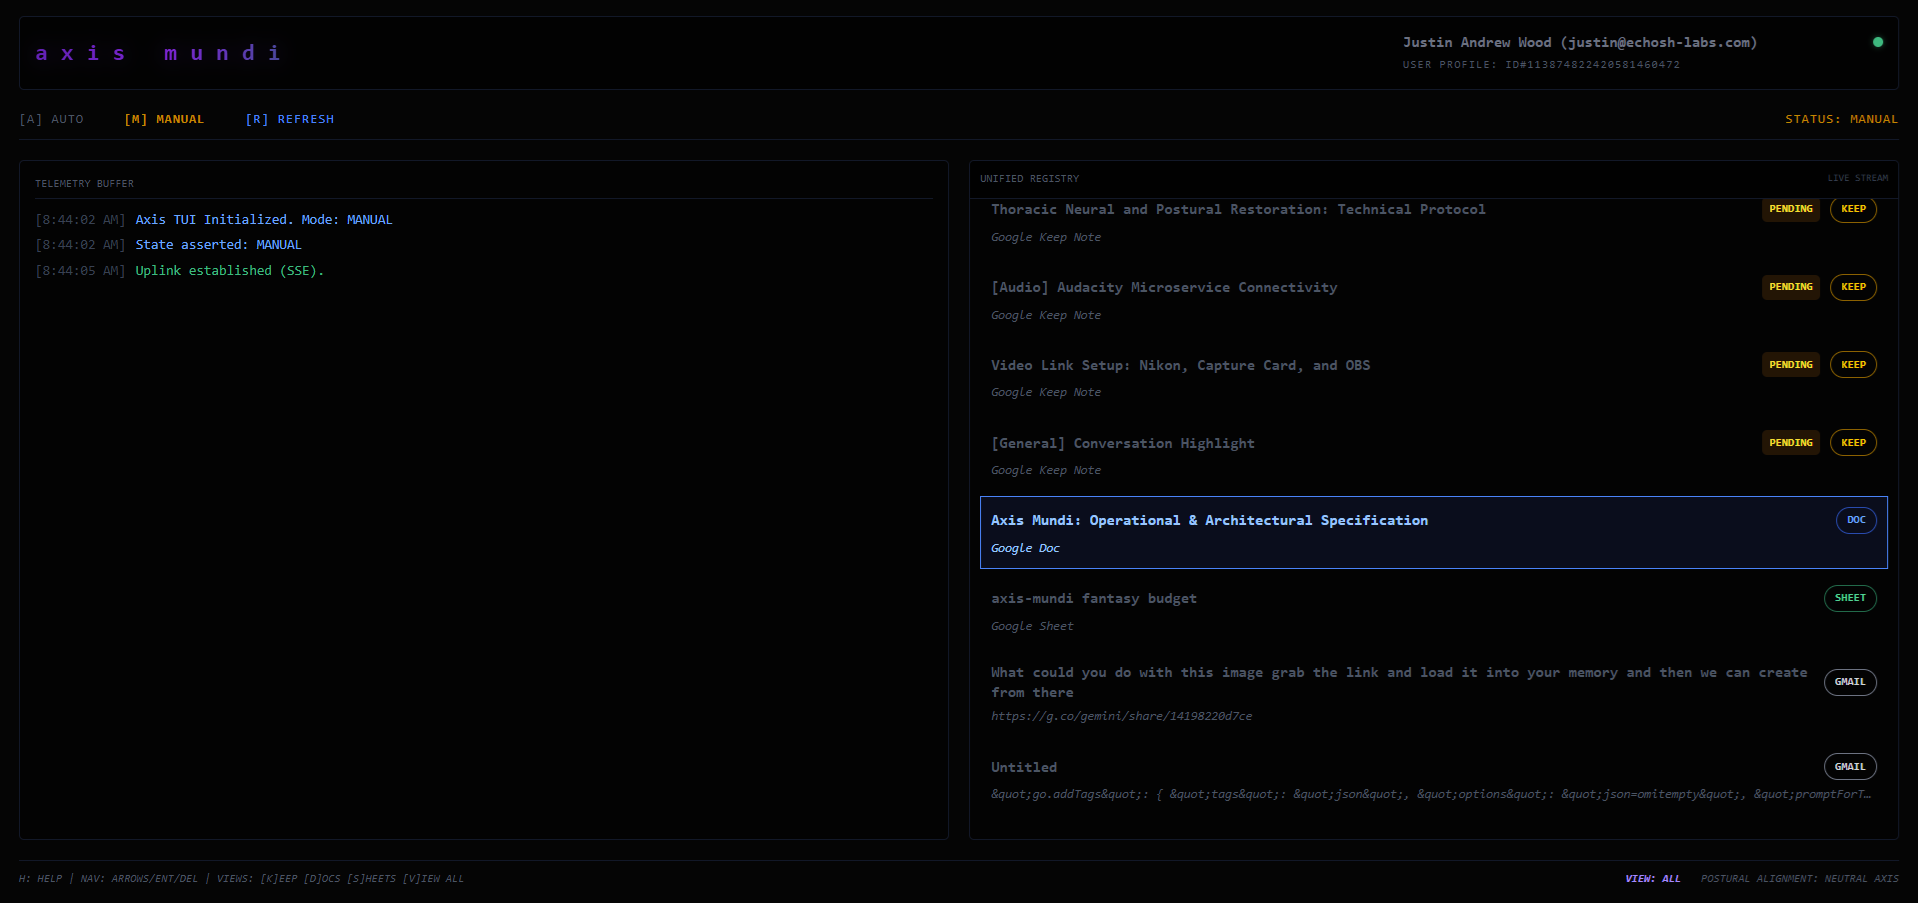
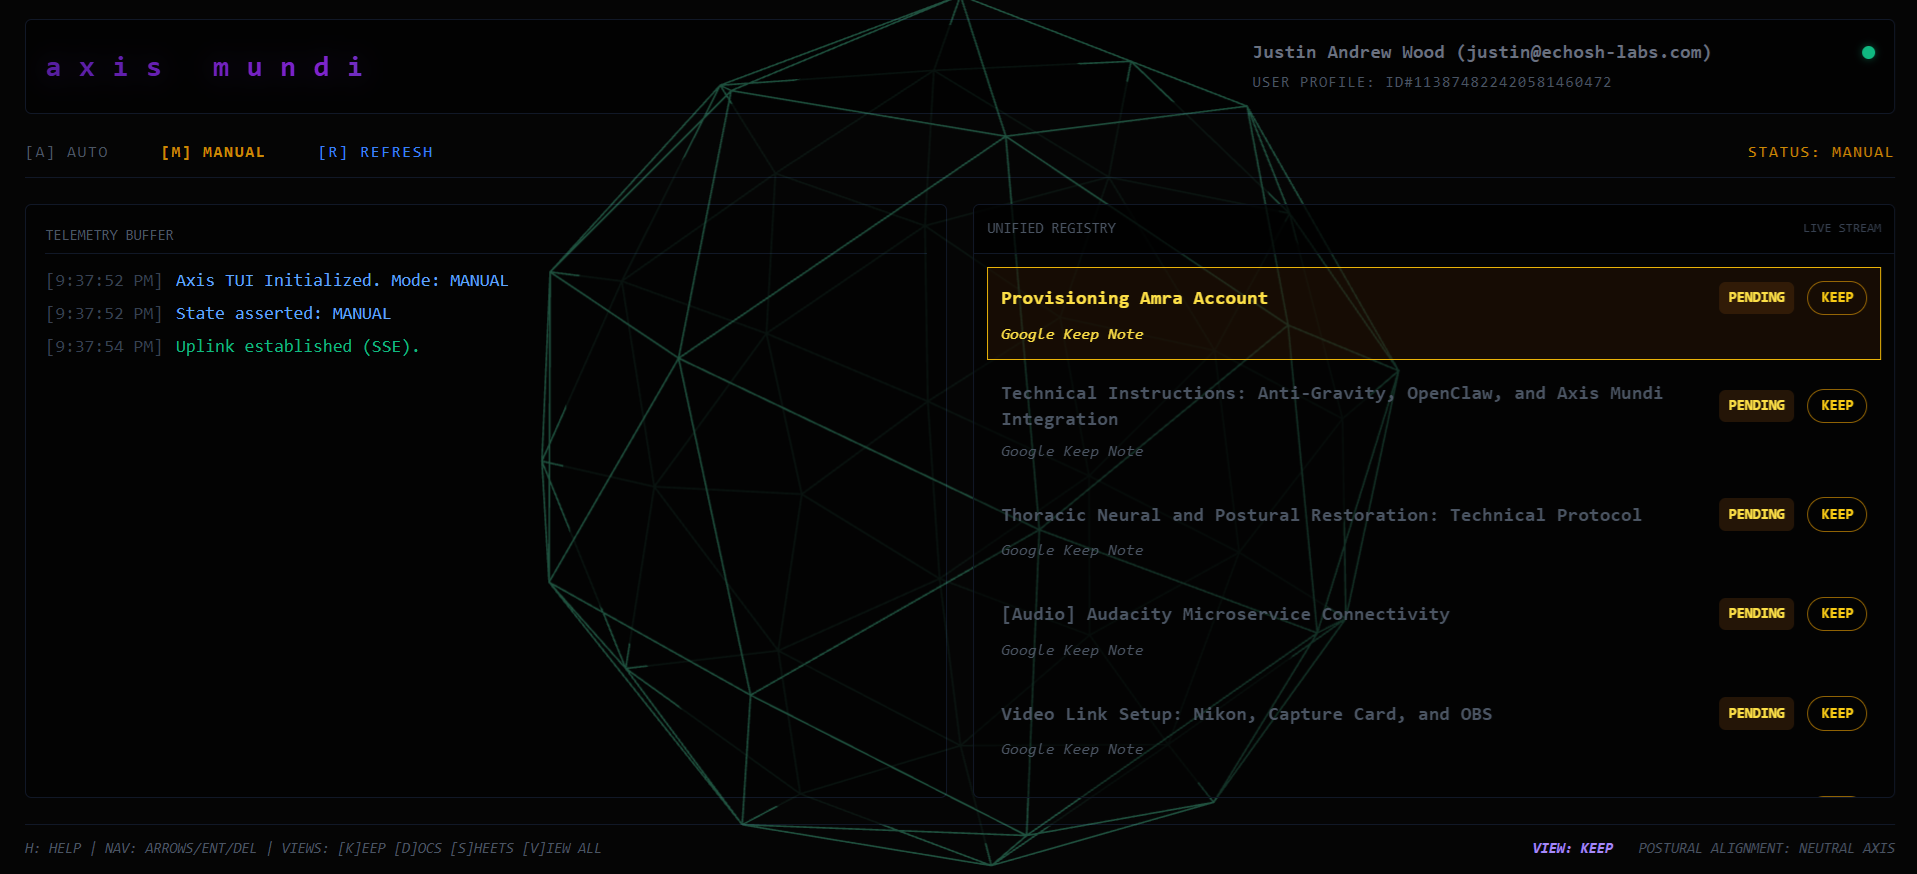
Update landing page screenshot

diff --git a/landing/dist/landing.7ob0jr1B.css b/landing/dist/landing.7ob0jr1B.css
@@ -1,0 +1,1 @@
+*,:after,:before{--tw-border-spacing-x:0;--tw-border-spacing-y:0;--tw-translate-x:0;--tw-translate-y:0;--tw-rotate:0;--tw-skew-x:0;--tw-skew-y:0;--tw-scale-x:1;--tw-scale-y:1;--tw-pan-x: ;--tw-pan-y: ;--tw-pinch-zoom: ;--tw-scroll-snap-strictness:proximity;--tw-gradient-from-position: ;--tw-gradient-via-position: ;--tw-gradient-to-position: ;--tw-ordinal: ;--tw-slashed-zero: ;--tw-numeric-figure: ;--tw-numeric-spacing: ;--tw-numeric-fraction: ;--tw-ring-inset: ;--tw-ring-offset-width:0px;--tw-ring-offset-color:#fff;--tw-ring-color:rgba(59,130,246,.5);--tw-ring-offset-shadow:0 0 #0000;--tw-ring-shadow:0 0 #0000;--tw-shadow:0 0 #0000;--tw-shadow-colored:0 0 #0000;--tw-blur: ;--tw-brightness: ;--tw-contrast: ;--tw-grayscale: ;--tw-hue-rotate: ;--tw-invert: ;--tw-saturate: ;--tw-sepia: ;--tw-drop-shadow: ;--tw-backdrop-blur: ;--tw-backdrop-brightness: ;--tw-backdrop-contrast: ;--tw-backdrop-grayscale: ;--tw-backdrop-hue-rotate: ;--tw-backdrop-invert: ;--tw-backdrop-opacity: ;--tw-backdrop-saturate: ;--tw-backdrop-sepia: ;--tw-contain-size: ;--tw-contain-layout: ;--tw-contain-paint: ;--tw-contain-style: }::backdrop{--tw-border-spacing-x:0;--tw-border-spacing-y:0;--tw-translate-x:0;--tw-translate-y:0;--tw-rotate:0;--tw-skew-x:0;--tw-skew-y:0;--tw-scale-x:1;--tw-scale-y:1;--tw-pan-x: ;--tw-pan-y: ;--tw-pinch-zoom: ;--tw-scroll-snap-strictness:proximity;--tw-gradient-from-position: ;--tw-gradient-via-position: ;--tw-gradient-to-position: ;--tw-ordinal: ;--tw-slashed-zero: ;--tw-numeric-figure: ;--tw-numeric-spacing: ;--tw-numeric-fraction: ;--tw-ring-inset: ;--tw-ring-offset-width:0px;--tw-ring-offset-color:#fff;--tw-ring-color:rgba(59,130,246,.5);--tw-ring-offset-shadow:0 0 #0000;--tw-ring-shadow:0 0 #0000;--tw-shadow:0 0 #0000;--tw-shadow-colored:0 0 #0000;--tw-blur: ;--tw-brightness: ;--tw-contrast: ;--tw-grayscale: ;--tw-hue-rotate: ;--tw-invert: ;--tw-saturate: ;--tw-sepia: ;--tw-drop-shadow: ;--tw-backdrop-blur: ;--tw-backdrop-brightness: ;--tw-backdrop-contrast: ;--tw-backdrop-grayscale: ;--tw-backdrop-hue-rotate: ;--tw-backdrop-invert: ;--tw-backdrop-opacity: ;--tw-backdrop-saturate: ;--tw-backdrop-sepia: ;--tw-contain-size: ;--tw-contain-layout: ;--tw-contain-paint: ;--tw-contain-style: }/*! tailwindcss v3.4.19 | MIT License | https://tailwindcss.com*/*,:after,:before{box-sizing:border-box;border:0 solid #e5e7eb}:after,:before{--tw-content:""}:host,html{line-height:1.5;-webkit-text-size-adjust:100%;-moz-tab-size:4;-o-tab-size:4;tab-size:4;font-family:Space Grotesk,ui-sans-serif,system-ui,sans-serif;font-feature-settings:normal;font-variation-settings:normal;-webkit-tap-highlight-color:transparent}body{margin:0;line-height:inherit}hr{height:0;color:inherit;border-top-width:1px}abbr:where([title]){-webkit-text-decoration:underline dotted;text-decoration:underline dotted}h1,h2,h3,h4,h5,h6{font-size:inherit;font-weight:inherit}a{text-decoration:inherit}b,strong{font-weight:bolder}code,kbd,pre,samp{font-family:JetBrains Mono,ui-monospace,SFMono-Regular,monospace;font-feature-settings:normal;font-variation-settings:normal;font-size:1em}small{font-size:80%}sub,sup{font-size:75%;line-height:0;position:relative;vertical-align:baseline}sub{bottom:-.25em}sup{top:-.5em}table{text-indent:0;border-color:inherit;border-collapse:collapse}button,input,optgroup,select,textarea{font-family:inherit;font-feature-settings:inherit;font-variation-settings:inherit;font-size:100%;font-weight:inherit;line-height:inherit;letter-spacing:inherit;color:inherit;margin:0;padding:0}button,select{text-transform:none}button,input:where([type=button]),input:where([type=reset]),input:where([type=submit]){-webkit-appearance:button;background-color:transparent;background-image:none}:-moz-focusring{outline:auto}:-moz-ui-invalid{box-shadow:none}progress{vertical-align:baseline}::-webkit-inner-spin-button,::-webkit-outer-spin-button{height:auto}[type=search]{-webkit-appearance:textfield;outline-offset:-2px}::-webkit-search-decoration{-webkit-appearance:none}::-webkit-file-upload-button{-webkit-appearance:button;font:inherit}summary{display:list-item}blockquote,dd,dl,figure,h1,h2,h3,h4,h5,h6,hr,p,pre{margin:0}fieldset{margin:0}fieldset,legend{padding:0}menu,ol,ul{list-style:none;margin:0;padding:0}dialog{padding:0}textarea{resize:vertical}input::-moz-placeholder,textarea::-moz-placeholder{opacity:1;color:#9ca3af}input::placeholder,textarea::placeholder{opacity:1;color:#9ca3af}[role=button],button{cursor:pointer}:disabled{cursor:default}audio,canvas,embed,iframe,img,object,svg,video{display:block;vertical-align:middle}img,video{max-width:100%;height:auto}[hidden]:where(:not([hidden=until-found])){display:none}:root{--bg:#0a0c10;--panel:#0f1117;--panel-2:#161a23;--text:#e8ecf2;--muted:#9aa4b5;--accent:#1dd3b0;--accent-2:#f5a524;--border:#1f2430}*{font-family:Space Grotesk,ui-sans-serif,system-ui,-apple-system,sans-serif}body{background:radial-gradient(circle at 20% 20%,rgba(29,211,176,.08),transparent 28%),radial-gradient(circle at 80% 0,rgba(245,165,36,.08),transparent 32%),var(--bg);color:var(--text)}a{color:inherit}@media (prefers-reduced-motion:reduce){*,:after,:before{animation-duration:.001ms!important;animation-iteration-count:1!important;transition-duration:.001ms!important}}.panel{background:linear-gradient(135deg,hsla(0,0%,100%,.015),hsla(0,0%,100%,.002));border:1px solid var(--border);border-radius:18px;box-shadow:0 12px 40px rgba(0,0,0,.28)}.tag{border:1px solid hsla(0,0%,100%,.08);border-radius:9999px;padding:4px 10px;font-size:.72rem}.cta-btn,.tag{letter-spacing:.04em}.cta-btn{padding:.75rem 1.35rem;border-radius:999px;font-weight:700;display:inline-flex;align-items:center;gap:.4rem;transition:transform .18s ease,box-shadow .18s ease,background .18s ease}.cta-btn:hover{transform:translateY(-1px);box-shadow:0 14px 38px rgba(29,211,176,.24)}.mono{font-family:JetBrains Mono,ui-monospace,SFMono-Regular,monospace}@keyframes shimmer{0%{background-position:0 50%}50%{background-position:100% 50%}to{background-position:0 50%}}.shimmer-text{background-image:linear-gradient(90deg,#4c1d95,#7e22ce,#047857);background-size:200% auto;-webkit-background-clip:text;background-clip:text;color:transparent;animation:shimmer 4s ease-in-out infinite;text-shadow:0 0 8px rgba(76,29,149,.45)}.mx-auto{margin-left:auto;margin-right:auto}.mb-1{margin-bottom:.25rem}.mb-2{margin-bottom:.5rem}.mb-4{margin-bottom:1rem}.mt-1{margin-top:.25rem}.mt-12{margin-top:3rem}.mt-14{margin-top:3.5rem}.mt-3{margin-top:.75rem}.mt-5{margin-top:1.25rem}.mt-6{margin-top:1.5rem}.flex{display:flex}.inline-flex{display:inline-flex}.grid{display:grid}.hidden{display:none}.h-2{height:.5rem}.h-2\.5{height:.625rem}.h-auto{height:auto}.min-h-screen{min-height:100vh}.w-2{width:.5rem}.w-2\.5{width:.625rem}.w-full{width:100%}.max-w-6xl{max-width:72rem}.list-inside{list-style-position:inside}.list-disc{list-style-type:disc}.grid-cols-2{grid-template-columns:repeat(2,minmax(0,1fr))}.flex-col{flex-direction:column}.flex-wrap{flex-wrap:wrap}.items-center{align-items:center}.justify-center{justify-content:center}.justify-between{justify-content:space-between}.gap-10{gap:2.5rem}.gap-2{gap:.5rem}.gap-3{gap:.75rem}.gap-4{gap:1rem}.gap-6{gap:1.5rem}.space-y-1>:not([hidden])~:not([hidden]){--tw-space-y-reverse:0;margin-top:calc(.25rem*(1 - var(--tw-space-y-reverse)));margin-bottom:calc(.25rem*var(--tw-space-y-reverse))}.space-y-14>:not([hidden])~:not([hidden]){--tw-space-y-reverse:0;margin-top:calc(3.5rem*(1 - var(--tw-space-y-reverse)));margin-bottom:calc(3.5rem*var(--tw-space-y-reverse))}.space-y-3>:not([hidden])~:not([hidden]){--tw-space-y-reverse:0;margin-top:calc(.75rem*(1 - var(--tw-space-y-reverse)));margin-bottom:calc(.75rem*var(--tw-space-y-reverse))}.space-y-6>:not([hidden])~:not([hidden]){--tw-space-y-reverse:0;margin-top:calc(1.5rem*(1 - var(--tw-space-y-reverse)));margin-bottom:calc(1.5rem*var(--tw-space-y-reverse))}.overflow-hidden{overflow:hidden}.rounded-full{border-radius:9999px}.rounded-lg{border-radius:.5rem}.rounded-xl{border-radius:.75rem}.border{border-width:1px}.border-\[var\(--border\)\]{border-color:var(--border)}.bg-\[var\(--accent\)\]{background-color:var(--accent)}.bg-charcoal-700{--tw-bg-opacity:1;background-color:rgb(22 26 35/var(--tw-bg-opacity,1))}.bg-charcoal-700\/60{background-color:rgba(22,26,35,.6)}.bg-charcoal-800{--tw-bg-opacity:1;background-color:rgb(15 17 23/var(--tw-bg-opacity,1))}.bg-charcoal-800\/60{background-color:rgba(15,17,23,.6)}.bg-charcoal-800\/70{background-color:rgba(15,17,23,.7)}.bg-charcoal-800\/80{background-color:rgba(15,17,23,.8)}.bg-charcoal-900{--tw-bg-opacity:1;background-color:rgb(10 12 16/var(--tw-bg-opacity,1))}.bg-emerald-400{--tw-bg-opacity:1;background-color:rgb(52 211 153/var(--tw-bg-opacity,1))}.bg-emerald-500\/15{background-color:rgba(16,185,129,.15)}.bg-sky-600{--tw-bg-opacity:1;background-color:rgb(2 132 199/var(--tw-bg-opacity,1))}.bg-white\/5{background-color:hsla(0,0%,100%,.05)}.object-cover{-o-object-fit:cover;object-fit:cover}.p-3{padding:.75rem}.p-4{padding:1rem}.p-5{padding:1.25rem}.p-6{padding:1.5rem}.px-3{padding-left:.75rem;padding-right:.75rem}.px-6{padding-left:1.5rem;padding-right:1.5rem}.py-1{padding-top:.25rem;padding-bottom:.25rem}.py-10{padding-top:2.5rem;padding-bottom:2.5rem}.text-3xl{font-size:1.875rem;line-height:2.25rem}.text-\[11px\]{font-size:11px}.text-lg{font-size:1.125rem;line-height:1.75rem}.text-sm{font-size:.875rem;line-height:1.25rem}.text-xs{font-size:.75rem;line-height:1rem}.font-semibold{font-weight:600}.uppercase{text-transform:uppercase}.lowercase{text-transform:lowercase}.leading-relaxed{line-height:1.625}.tracking-\[0\.12em\]{letter-spacing:.12em}.tracking-\[0\.6em\]{letter-spacing:.6em}.text-\[var\(--muted\)\]{color:var(--muted)}.text-amber-200{--tw-text-opacity:1;color:rgb(253 230 138/var(--tw-text-opacity,1))}.text-charcoal-900{--tw-text-opacity:1;color:rgb(10 12 16/var(--tw-text-opacity,1))}.text-emerald-100{--tw-text-opacity:1;color:rgb(209 250 229/var(--tw-text-opacity,1))}.text-emerald-200{--tw-text-opacity:1;color:rgb(167 243 208/var(--tw-text-opacity,1))}.text-emerald-300{--tw-text-opacity:1;color:rgb(110 231 183/var(--tw-text-opacity,1))}.text-sky-200{--tw-text-opacity:1;color:rgb(186 230 253/var(--tw-text-opacity,1))}.text-slate-100{--tw-text-opacity:1;color:rgb(241 245 249/var(--tw-text-opacity,1))}.text-slate-200{--tw-text-opacity:1;color:rgb(226 232 240/var(--tw-text-opacity,1))}.text-white{--tw-text-opacity:1;color:rgb(255 255 255/var(--tw-text-opacity,1))}.shadow-glow{--tw-shadow:0 0 40px rgba(29,211,176,.15);--tw-shadow-colored:0 0 40px var(--tw-shadow-color);box-shadow:var(--tw-ring-offset-shadow,0 0 #0000),var(--tw-ring-shadow,0 0 #0000),var(--tw-shadow)}.drop-shadow-\[0_0_8px_rgba\(76\2c 29\2c 149\2c 0\.45\)\]{--tw-drop-shadow:drop-shadow(0 0 8px rgba(76,29,149,.45))}.drop-shadow-\[0_0_8px_rgba\(76\2c 29\2c 149\2c 0\.45\)\],.filter{filter:var(--tw-blur) var(--tw-brightness) var(--tw-contrast) var(--tw-grayscale) var(--tw-hue-rotate) var(--tw-invert) var(--tw-saturate) var(--tw-sepia) var(--tw-drop-shadow)}@media (min-width:640px){.sm\:inline{display:inline}.sm\:flex-row{flex-direction:row}.sm\:items-center{align-items:center}.sm\:justify-between{justify-content:space-between}}@media (min-width:768px){.md\:grid-cols-2{grid-template-columns:repeat(2,minmax(0,1fr))}.md\:grid-cols-3{grid-template-columns:repeat(3,minmax(0,1fr))}.md\:grid-cols-\[1\.1fr_0\.9fr\]{grid-template-columns:1.1fr .9fr}.md\:flex-row{flex-direction:row}.md\:items-center{align-items:center}.md\:justify-between{justify-content:space-between}.md\:py-14{padding-top:3.5rem;padding-bottom:3.5rem}}

diff --git a/landing/index.html b/landing/index.html
@@ -70,11 +70,8 @@
                         <span class="mono">/screens/overview</span>
                         <span class="rounded-full bg-emerald-500/15 text-emerald-100 px-3 py-1 text-[11px]">Demo capture</span>
                     </div>
-                    <div class="mt-3 overflow-hidden rounded-xl border border-[var(--border)] bg-charcoal-700 min-h-[260px] flex items-center justify-center text-[var(--muted)] text-sm">
-                        <div class="text-center px-6 py-10">
-                            <div class="mb-3 text-slate-100 font-semibold">Interface preview placeholder</div>
-                            <p>Replace screenshot.png with a fresh capture of the TUI/web UI. (Currently using placeholder art.)</p>
-                        </div>
+                    <div class="mt-3 overflow-hidden rounded-xl border border-[var(--border)] bg-charcoal-700 flex items-center justify-center">
+                        <img src="./screenshot.png" alt="Axis Mundi TUI Overview" class="w-full h-auto object-cover" />
                     </div>
                     <p class="mt-3 text-[11px] text-[var(--muted)]">Status and node values are demo labels; wire to live API if available.</p>
                 </div>
